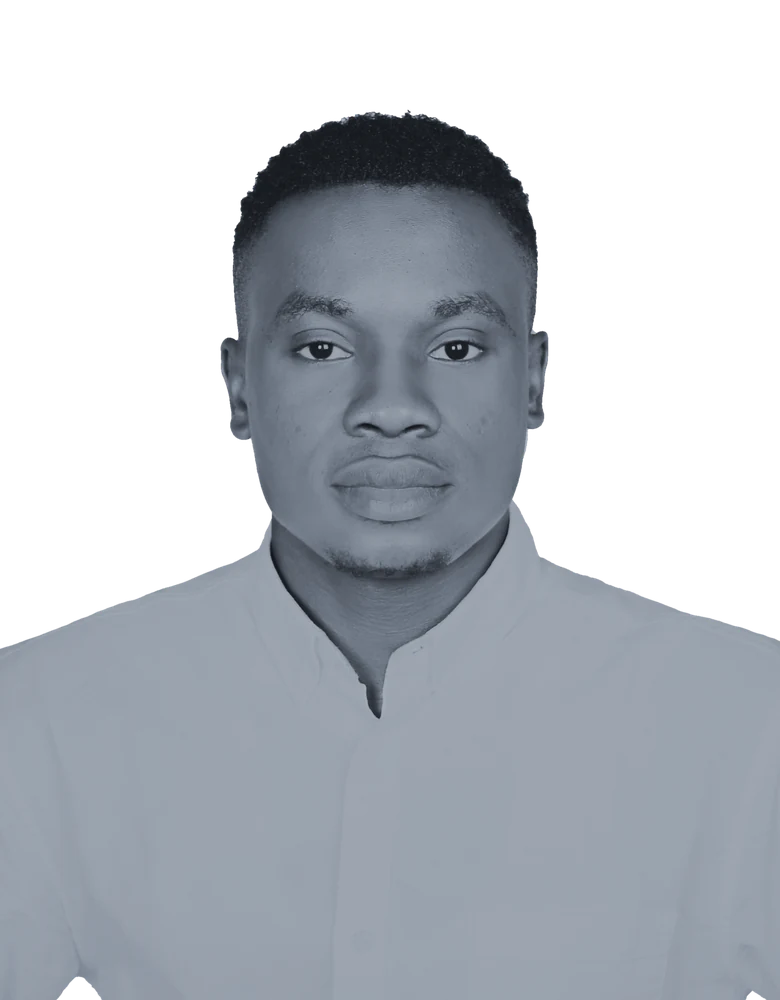
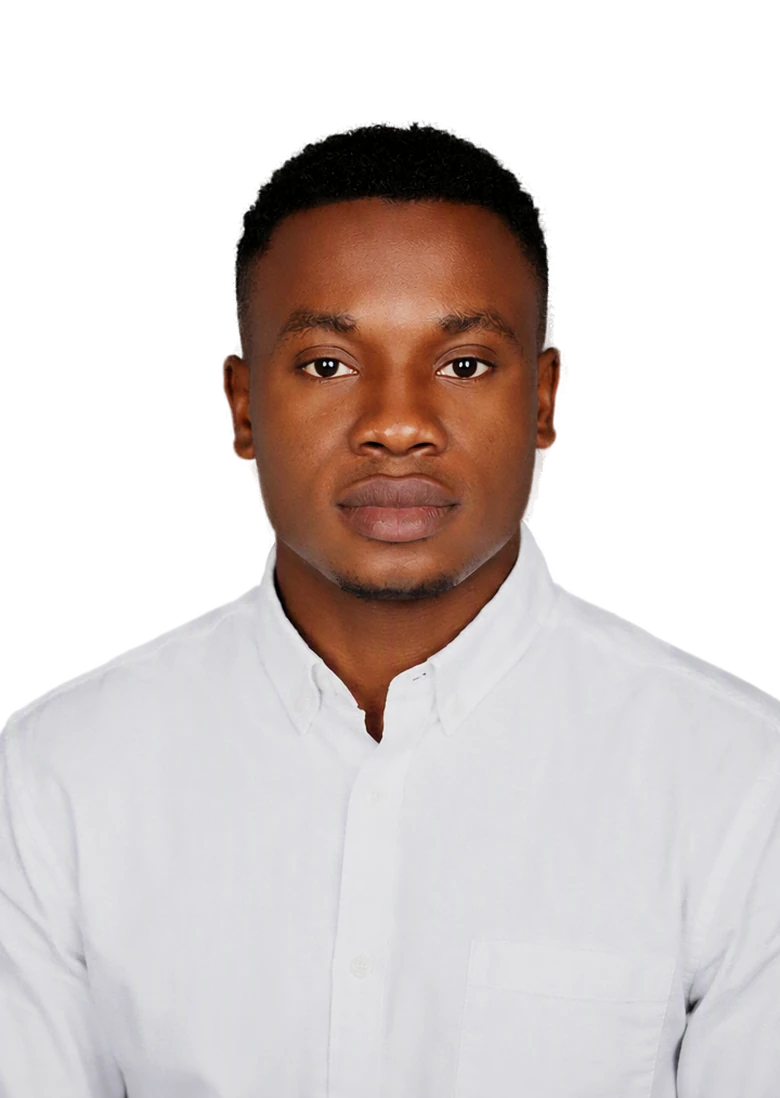
Put the about portrait back in colour
The monochrome grade clamped the white point to 73 percent grey, so
nothing in the picture ever approached white and the whole image
collapsed into a narrow slate band. That is what read as washed out.

The reasoning behind going monochrome was also wrong. What makes a
colour photograph fight a designed page is the rectangle of foreign
colour, and a cut-out has no rectangle. What is left here is skin,
hair and a white shirt.

New source is the wider dark-backdrop studio frame, cut with a real
segmenter because near-black hair on a dark grey backdrop cannot be
flood-filled. The shirt is held below paper white so it does not
dissolve into the light theme and leave a floating head.

diff --git a/SESSION_NOTES.md b/SESSION_NOTES.md
@@ -55,3 +55,4 @@ Stage plan lives outside this repository at `/Users/hyperdev/Documents/hypdev-we
 | 2026-08-30 | 7 (about page portrait) | Reviewed the four photographs added to public/. Two were byte-identical duplicates (IMG_1300.PNG and my_picture.PNG, same MD5) and both files named `.WEBP` were actually HEIC, which is why nothing could open them. Of the three distinct images, IMG_1300 at 4180x5120 was the only viable one: the other two are phone selfies against busy backgrounds, and a background that busy cannot be cut cleanly. Its uniform studio white made the matte straightforward. rembg needs a 1GB model and was killed for memory in this container, so the cut was done by flood-filling from the image border across near-white pixels, dilating the matte by a pixel and feathering it. Flood-filling from the border matters: only background connected to the edge is removed, so the white shirt in the middle of the frame is never touched. Checked the hairline at 2x, no halo. Graded to mono with the highlights rolled well down, because at full brightness the shirt read lighter than the face and pulled the eye to the chest. 33KB as WebP against 372KB as PNG. Redesigned the About page around it: the portrait now leads in a header band beside the heading and first paragraph, with its base masked out so it dissolves instead of ending on a cut line, rather than being a 64px monogram in a sidebar. Light theme takes a small contrast and warmth correction, since a grade tuned for a near-black ground floats as a grey shape on cream. Verified in both themes and at 390px under the production CSP: zero violations, no overflow. | Moved all four originals to `source-photos/` and gitignored it. They had been sitting in `public/`, which Vercel serves verbatim, so roughly 11MB of camera files including an exact duplicate would have been deployed and downloadable. The two misnamed HEICs were also renamed to `.heic` so they open on a double-click. |
 | 2026-08-30 | 7 (portrait, better matte) | `photo_update.svg` turned out to be 3.2MB of base64 raster wrapped in SVG, not a vector: two embedded 2857x3499 PNGs, one RGB and one greyscale alpha mask. So it is the same IMG_1300 portrait with the background removed by a proper matting tool. Compared its hairline against the flood-fill matte generated here at 2x magnification: theirs is clearly better, holding individual hair texture at the crown where mine feathered the edge. Swapped `public/images/portrait.webp` to the graded version of their cut-out; the mono grade and rolled-down highlights are unchanged, since that decision was about the page rather than the matte. 34KB as WebP against 3.2MB as SVG, the same picture. The SVG moved to `source-photos/`. | Serving that SVG as-is would have shipped 3.2MB for one image, with none of the benefits of vector: no image CDN can resize or re-encode a base64 payload inside an SVG, and every visitor downloads the full-resolution original. An SVG containing only `<image>` is a raster in a costume. Worth remembering if more assets arrive this way. |
 | 2026-08-30 | 7 (portrait, better source) | A new 5472x3648 studio frame arrived and it beats both earlier attempts, so the picture was rebuilt from it rather than re-graded. Three things make it the right source: real headroom above the crown, a full torso rather than a passport crop, and a pure white sweep with the subject running off the bottom edge, which is exactly what the base fade wants. Matte was flood-filled from the border as before but tuned for JPEG rather than PNG: threshold tightened to 20 and the outside mask dilated two pixels instead of the matte being dilated, because JPEG ringing leaves a bright halo around hair against white and growing the matte preserves it. Hairline checked at 2x, clean. The grade was rebuilt too: flat autocontrast measured the face at 114 and the shirt at 204, which is why the chest was winning the page, so a piecewise curve now lifts the face to 160 and knees the shirt at 212. First crop ran the full frame width and the base fade cut through both forearms, leaving two dark wedges in the bottom corners; narrowing the crop inside the elbows makes the shirt fade out as a single field. 31KB WebP at 780x1000. Verified on the built page under the production CSP in both themes. | The face-versus-shirt problem is a tone-mapping problem, not a matte problem, and it is invisible until the image is composited on the real background. Judge a cut-out on the page, never in an image viewer on white. |
+| 2026-08-30 | 7 (portrait, colour) | Reverted the portrait to colour. The monochrome grade was washed out and the cause was mine: it clamped the white point to #b4bcc7, 73 percent grey, so the brightest thing in the frame never approached white and the image collapsed into a narrow slate band. A duotone keeps the full range and tints only the ends. The reasoning was also wrong. The objection to a colour photograph on a designed page is the rectangle of foreign colour, and a cut-out has no rectangle; what remains is skin, hair and a white shirt, which is more restrained than the rest of the page. Source is the wider of the two dark-backdrop studio frames, chosen for torso, since the torso is what the base fade dissolves into. Background removed with rembg u2net_human_seg plus alpha matting, which this frame requires: near-black hair against a dark grey backdrop cannot be separated by the flood-fill method that worked on the white-background frames. Source gives only 52px above the crown so 60 transparent rows are padded on top before cropping. Final crop 720x1014, exported 780x1098. Verified under the production CSP at 1280 and 390: zero violations, no overflow. | Two rules worth keeping. First, the shirt must never reach paper white or it dissolves into the light theme ground and leaves a floating head; the highlight knee puts the 98th percentile at 226, and any regrade should check that number before anything else. Second, the light theme filter lost its sepia, which existed only to warm a monochrome grade and would now sit on top of real skin tone. |

diff --git a/CONTENT.md b/CONTENT.md
@@ -349,44 +349,65 @@ Heading: About
 
 A cut-out portrait leads the page, beside the
 heading and the first paragraph. Held at
-public/images/portrait.webp: the studio background
-is removed and the image is graded to the palette,
-because a colour photograph on this ground reads as
-a sticker rather than part of the page. Its base
-fades out rather than ending on a cut line.
+public/images/portrait.webp, 780x1000.
 
-Source is the 5472x3648 studio frame supplied on
-2026-08-30, not the earlier passport-style crop.
-It has real headroom, a full torso and a pure white
-sweep, so the crop is a decision rather than a
-rescue. Current crop is 2100x2692 from the original,
-centred on x=2760 with the top edge at y=506, which
-is about eleven percent headroom above the crown,
-exported at 780x1000.
+It is in COLOUR, deliberately. It was monochrome
+first and that was wrong twice over. The grade
+clamped the white point to #b4bcc7, which is 73
+percent grey, so the brightest thing in the picture
+never approached white and the whole image collapsed
+into a narrow slate band. That is what washed it
+out. A duotone keeps the full range and tints only
+the ends. The second error was the reasoning: the
+objection to a colour photograph on a designed page
+is the rectangle of foreign colour, and there is no
+rectangle here because the background is cut away.
+What is left is skin, hair and a white shirt, which
+is a more restrained palette than the rest of the
+page and does not fight the cyan.
 
-The tone curve matters more than the matte. Flat
-autocontrast puts the white shirt at the top of the
-range and the face reads as a dark hole beside it;
-the curve lifts the face into the focal band and
-puts a knee on the shirt so it stops climbing.
-Control points, on a 0-255 greyscale before the
-colorize step:
+Source is source-photos/hypdev_about_portrait_clean_03.png,
+the wider studio frame on the dark backdrop. It was
+chosen over the tighter variant because it carries
+more torso, and the torso is what the base fade
+dissolves into. Background removed with rembg using
+the u2net_human_seg model and alpha matting. This
+one needs a real segmenter: the backdrop is dark
+grey and the hair is near-black, so the flood-fill
+approach used on the white-background frames cannot
+separate them.
 
-    in   0  27  60 114 150 204 230 255
-    out  6  22  70 160 190 212 224 232
+Geometry. The source gives only 52px above the crown,
+so 66 transparent rows are padded on top before
+cropping, which puts the head top at about 11 percent.
+Crop is 720x1014 from the padded frame, centred on
+x=510, exported 780x1098. It lands
+inside the elbows on purpose: a wider crop puts the
+forearms where the base fade cuts through them and
+leaves two dark wedges in the bottom corners.
 
-Then colorize black #0b0d11, mid #6b7481, white
-#b4bcc7.
+The one grading rule that matters. The shirt must
+never reach paper white, or it dissolves into the
+light theme's near-white ground and leaves a floating
+head. Highlight knee, applied to all three channels
+on a 0-255 scale:
 
-Crop width is deliberately inside the elbows. A
-wider crop keeps both forearms, and where the base
-fade cuts through them they leave two dark wedges in
-the bottom corners. Narrower, the shirt fades out as
-one field.
+    in   0  60 120 180 215 255
+    out  4  58 124 184 212 234
 
-Originals live in source-photos/, which is
-gitignored and never served. Do not put a
-multi-megabyte camera file in public/.
+Then saturation 0.88 and contrast 1.06. Measured
+result: shirt at the 98th percentile is 226, safely
+below paper white. Any regrade should check that
+number first.
+
+The light theme takes only filter: contrast(1.03)
+brightness(0.97). There is no sepia any more; that
+existed to warm a monochrome grade and would now sit
+on top of real skin tone.
+
+Originals live in source-photos/, which is gitignored
+and never served. Do not put a multi-megabyte camera
+file in public/.
 
 ---
 
